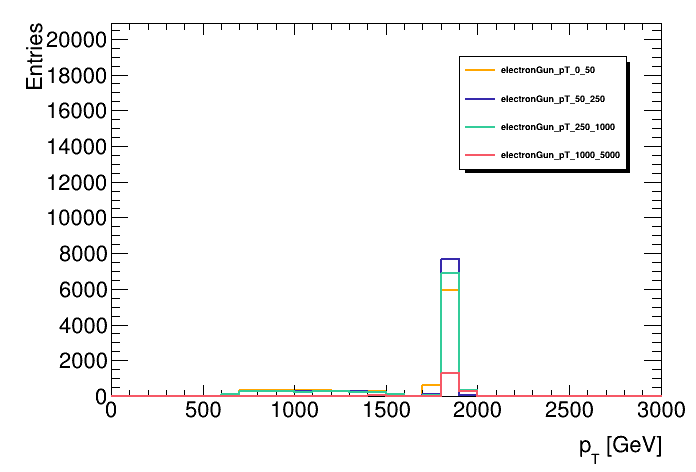
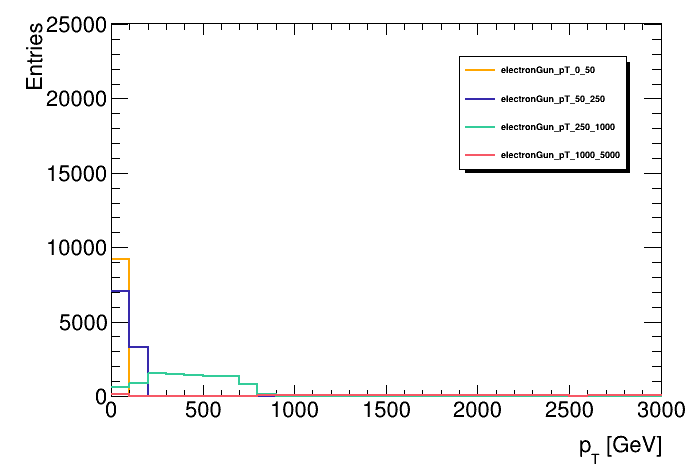
working on cluster matching

diff --git a/testClusterMatch.py b/testClusterMatch.py
@@ -1,0 +1,118 @@
+import glob
+import math
+import ROOT
+from pyLCIO import IOIMPL
+
+# --- Matching functions ---
+def match_deltaR(tlv1, tlv2):
+    return tlv1.DeltaR(tlv2) < 0.1
+
+def match_relPt(tlv1, tlv2):
+    return abs(tlv1.Perp() - tlv2.Perp()) / tlv2.Perp() < 0.2
+
+# --- File setup ---
+files = [
+    "electronGun_pT_0_50",
+    "electronGun_pT_50_250",
+    "electronGun_pT_250_1000",
+    "electronGun_pT_1000_5000"
+]
+
+samples = glob.glob("/data/fmeloni/DataMuC_MuColl10_v0A/v0/reco/electronGun*")
+
+label_map = {
+    "electronGun_pT_0_50": "pT 0-50 GeV",
+    "electronGun_pT_50_250": "pT 50-250 GeV",
+    "electronGun_pT_250_1000": "pT 250-1000 GeV",
+    "electronGun_pT_1000_5000": "pT 1000-5000 GeV"
+}
+
+# --- Histograms ---
+hists = {}
+for s in files:
+    hists[s] = {
+        "mcp_el_eta": ROOT.TH1F(f"{s}_mcp_el_eta", "", 50, -2.5, 2.5),
+        "clusters_eta": ROOT.TH1F(f"{s}_clusters_eta", "", 50, -2.5, 2.5),
+        "clusters_match_dR_eta": ROOT.TH1F(f"{s}_clusters_match_dR_eta", "", 50, -2.5, 2.5),
+        "clusters_match_relPt_eta": ROOT.TH1F(f"{s}_clusters_match_relPt_eta", "", 50, -2.5, 2.5),
+        "clusters_match_both_eta": ROOT.TH1F(f"{s}_clusters_match_both_eta", "", 50, -2.5, 2.5)
+    }
+
+# --- Processing loop ---
+for s in files:
+    for f in samples:
+        if s in f:
+            reader = IOIMPL.LCFactory.getInstance().createLCReader()
+            reader.open(f)
+
+            while True:
+                try:
+                    event = reader.readNextEvent()
+                    if event is None:
+                        break
+
+                    mcps = event.getCollection("MCParticle")
+                    clusters = event.getCollection("ReconClusters")
+
+                    my_mcp_el = None
+                    for mcp in mcps:
+                        if not mcp.getGeneratorStatus() == 1:
+                            continue
+                        px, py, pz = mcp.getMomentum()
+                        energy = mcp.getEnergy()
+                        mcp_tlv = ROOT.TLorentzVector(px, py, pz, energy)
+                        if abs(mcp.getPDG()) == 11 and abs(mcp_tlv.Eta()) <= 2:
+                            hists[s]["mcp_el_eta"].Fill(mcp_tlv.Eta())
+                            my_mcp_el = mcp_tlv
+
+                    for cluster in clusters:
+                        cluster_pos = cluster.getPosition()
+                        cluster_E = cluster.getEnergy()
+                        if cluster_E <= 0 or not my_mcp_el:
+                            continue
+
+                        cluster_vec = ROOT.TVector3(cluster_pos[0], cluster_pos[1], cluster_pos[2])
+                        direction = cluster_vec.Unit()
+                        cluster_tlv = ROOT.TLorentzVector()
+                        cluster_tlv.SetVect(direction * cluster_E)
+                        cluster_tlv.SetE(cluster_E)
+
+                        hists[s]["clusters_eta"].Fill(cluster_tlv.Eta())
+
+                        if match_deltaR(cluster_tlv, my_mcp_el):
+                            hists[s]["clusters_match_dR_eta"].Fill(cluster_tlv.Eta())
+
+                        if match_relPt(cluster_tlv, my_mcp_el):
+                            hists[s]["clusters_match_relPt_eta"].Fill(cluster_tlv.Eta())
+
+                        if match_deltaR(cluster_tlv, my_mcp_el) and match_relPt(cluster_tlv, my_mcp_el):
+                            hists[s]["clusters_match_both_eta"].Fill(cluster_tlv.Eta())
+
+                except Exception:
+                    break
+
+            reader.close()
+            break
+
+# --- Output summary ---
+print("\nCluster Matching Efficiency Summary:")
+for s in hists:
+    total = hists[s]["mcp_el_eta"].GetEntries()
+    dR = hists[s]["clusters_match_dR_eta"].GetEntries()
+    relPt = hists[s]["clusters_match_relPt_eta"].GetEntries()
+    both = hists[s]["clusters_match_both_eta"].GetEntries()
+    print(f"{label_map[s]}: total MC electrons = {int(total)}, matched dR = {int(dR)}, relPt = {int(relPt)}, both = {int(both)}")
+
+# --- Save plots ---
+if ROOT.gSystem.AccessPathName("plots/test_match"):
+    pass
+else:
+    ROOT.gSystem.mkdir("plots/test_match", True)
+
+for s in hists:
+    for key in hists[s]:
+        c = ROOT.TCanvas("c", "c", 800, 600)
+        hists[s][key].Draw()
+        outname = f"plots/test_match/{s}_{key}.png"
+        c.SaveAs(outname)
+

diff --git a/electronStudies.py b/electronStudies.py
@@ -77,16 +77,17 @@ for s in files:
     hists2d[s]["mcp_E_v_mcp_p"] = ROOT.TH2F(f"mcp_E_v_mcp_p_{s}", f"mcp_E_v_mcp_p_{s}", 30,0,1000,30,0,1000)
 
 
-
+ # and abs(tlv1.Perp()-tlv2.Perp())/tlv2.Perp() < 0.2:
+#tlv1.DeltaR(tlv2) < 0.1
 # Perform matching between two TLVs
 def isMatched(tlv1, tlv2):
-    if tlv1.DeltaR(tlv2) < 0.1 and abs(tlv1.Perp()-tlv2.Perp())/tlv2.Perp() < 0.2:
+    if tlv1.DeltaR(tlv2) < 0.1 and abs(tlv1.Perp()-tlv2.Perp())/tlv2.Perp() < 0.2:       
         return True
     return False
-def isClusterMatched(tlv1, tlv2):
-    if tlv1.DeltaR(tlv2) < .2 and abs(tlv1.Perp() - tlv2.Perp()) / tlv2.Perp() < .5:
-        return True
-    return False
+#def isClusterMatched(tlv1, tlv2):
+    #if tlv1.DeltaR(tlv2) < .2 and abs(tlv1.Perp() - tlv2.Perp()) / tlv2.Perp() < .5:
+        #return True
+    #return False
 
 # Create a reader object to use for the rest of the time
 reader = pyLCIO.IOIMPL.LCFactory.getInstance().createLCReader()
@@ -186,17 +187,30 @@ for s in files:
             
 
             for cluster in clusters:
-                cluster_tlv = getClusterTLV(cluster)
+                cluster_position = cluster.getPosition()
+                cluster_E = cluster.getEnergy()
+                if cluster_E <= 0:
+                    continue
+
+                cluster_vec = ROOT.TVector3()
+                cluster_vec= ROOT.TVector3(cluster_position[0], cluster_position[1], cluster_position[2])
+                direction = cluster_vec.Unit()
+                cluster_tlv = ROOT.TLorentzVector()
+                cluster_tlv.SetVect(direction * cluster_E)
+                cluster_tlv.SetE(cluster_E)
+                
                 fillObjHists(hists[s], "clusters", cluster_tlv)
                 n_clusters += 1
                 
-                if isClusterMatched(cluster_tlv, my_mcp_el):
+                if isMatched(cluster_tlv, my_mcp_el):
                     fillObjHists(hists[s], "clusters_el_match", cluster_tlv)
                     n_matched_clusters += 1
                
 
+
                     
             hists[s]["clusters_n"].Fill(n_clusters)
+            hists[s]["clusters_el_match_n"].Fill(n_matched_clusters)
 
             ######## Loop over tracks
             for trk in trks:
@@ -253,6 +267,11 @@ plotHistograms(
     xlabel="eta",
     ylabel="Track Matching Efficiency"
 )
+print("\nTrack Matching Efficiency Summary:")
+for s in hists:
+    matched = hists[s]["trk_el_match_eta"].GetEntries() if "trk_el_match_eta" in hists[s] else 0
+    total = hists[s]["mcp_el_eta"].GetEntries() if "mcp_el_eta" in hists[s] else 0
+    print(f"{label_map.get(s, s)}: matched = {int(matched)}, total = {int(total)}")
 
 # PFO Efficiency as a function of eta
 eff_eta_pfo = {}
@@ -272,6 +291,11 @@ plotHistograms(
     xlabel="eta",
     ylabel="PFO Matching Efficiency"
 )
+print("\nPFO Matching Efficiency Summary:")
+for s in hists:
+    matched = hists[s]["pfo_el_match_eta"].GetEntries() if "pfo_el_match_eta" in hists[s] else 0
+    total = hists[s]["mcp_el_eta"].GetEntries() if "mcp_el_eta" in hists[s] else 0
+    print(f"{label_map.get(s, s)}: matched = {int(matched)}, total = {int(total)}")
 
 # Cluster Efficiency as a function of eta
 eff_eta_clus = {}
@@ -291,6 +315,11 @@ plotHistograms(
     xlabel="eta",
     ylabel="Cluster Matching Efficiency"
 )
+print("\nCluster Matching Efficiency Summary:")
+for s in hists:
+    matched = hists[s]["clusters_el_match_eta"].GetEntries() if "clusters_el_match_eta" in hists[s] else 0
+    total = hists[s]["mcp_el_eta"].GetEntries() if "mcp_el_eta" in hists[s] else 0
+    print(f"{label_map.get(s, s)}: matched = {int(matched)}, total = {int(total)}")
     
 
 print("ntracks entries", hists[s]["trk_n"].GetEntries())
